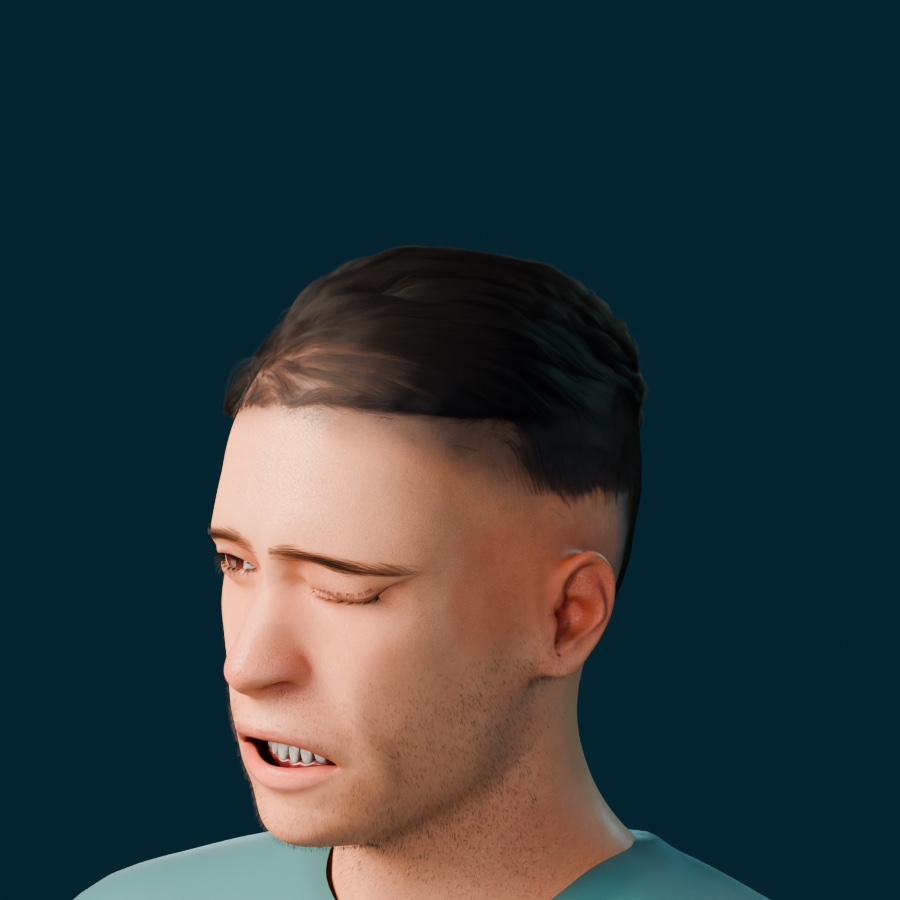
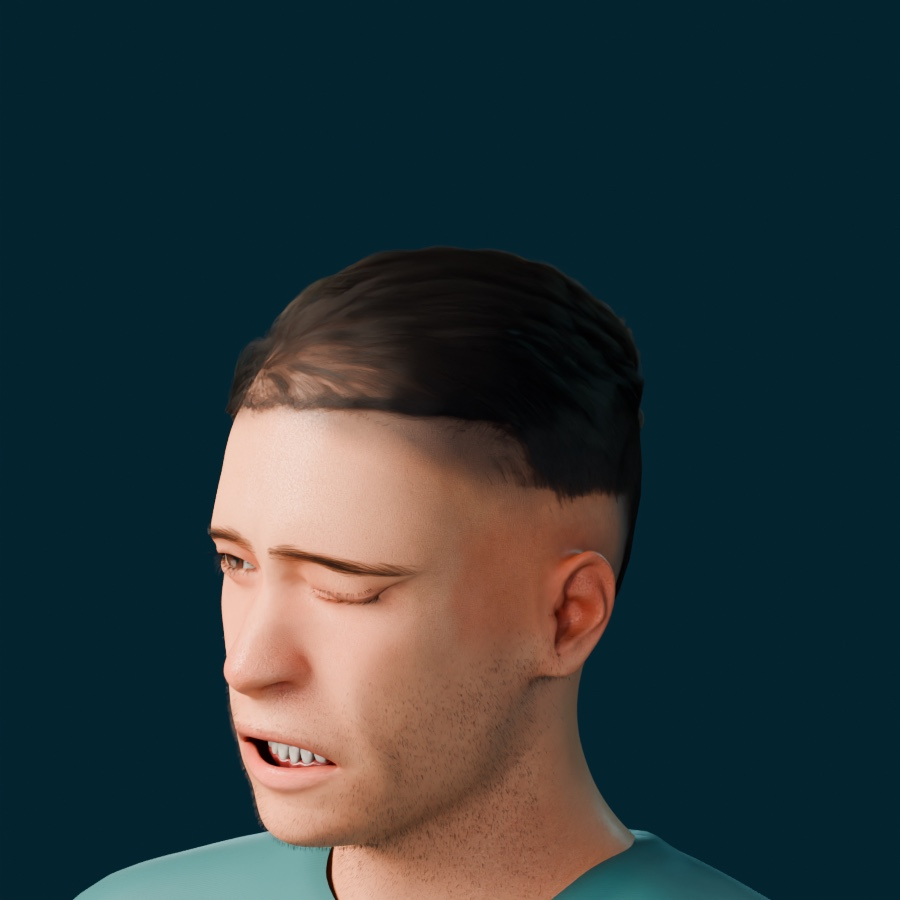
Max v6b review: re-render, wider shirt shot, notes (hair lifts in swallow pose)

diff --git a/assets/characters/max/review/max_v6_notes.md b/assets/characters/max/review/max_v6_notes.md
@@ -65,3 +65,44 @@ Source: `max_v6.blend` (4c6ab92) + `max_look.py --sheet`. Blender 5.2.3 LTS, Cyc
 ## Broken / artefacts
 - None new: no hair through skin, no stray strands, no fireflies, no tearing at eyelids, mouth
   corners or shoulders.
+
+## v6b
+
+Re-render of `max_v6.blend` at 12a49fd: same wrapper, 128 spp, the same 6 outputs (max_v6_* overwritten).
+The shirt shot is pulled back (2.45 m, aim 16 cm higher) so the raised hand is fully in frame.
+- Times: turnarounds 3.9-5.1 s; expressions 4.8-14.9 s; close-ups 26.5 s (ear pop), 27.2 s (hair),
+  17.2 s (eyes), 11.8 s (shirt). Whole run 255 s. Peak footprint 7.4 GB, max RSS 3.4 GB.
+- The renders got slower partway through, probably because macOS `mediaanalysisd` (Photos library
+  analysis) was using ~180% CPU in the background. That's not the asset; v6 times are the real baseline.
+
+### NEW BUG (top priority): the hair lifts off the forehead in the swallow pose
+- In `expr_swallow` (chin tucked down) a **pale bald band appears between the brows and the
+  hairline**: the front of the hair sits up and back from the scalp, so the forehead skin shows
+  through where hair should be. Visible even at phone size in the expression sheet.
+- The other head poses look fine (thinking tilt, ear pop). It seems to happen when the head/neck
+  bends forward: the hair curves may not follow the head deform (rest-pose surface vs posed mesh),
+  or the swallow neck/throat shape key moves the scalp under the hair.
+- Check before any shot where Max nods or looks down.
+
+### Did each fix work?
+- **Tear line: partly.** A faint wet sheen is now visible on the lower lid edge, especially on his
+  left eye. Subtle but present; fine for film distances.
+- **Lashes: yes.** Thinner and softer, no more mascara look. The lower lashes are still slightly
+  clumpy, but acceptable.
+- **Irises: yes.** A natural warm mid-brown, no longer red/orange.
+- **Caruncles:** a little pinker in the inner corners; subtle but now reads as flesh.
+- **Teeth: yes.** Brighter and warmer (no blue-grey); they read as teeth at phone size in ear pop,
+  surprised, scared and yawn.
+- **Ear rim: improved.** Only a very small bright edge at the top of the ear in the close-ups; it
+  won't read in film.
+- **Shirt folds: partly.** Somewhat stronger shading folds on the chest, belly and the side under
+  the raised arm, and less sheen (good). Still fairly smooth with no crisp creases, and under the
+  raised arm the shirt still stretches up with the skin instead of bunching.
+- **Temples: yes.** Corners fuller; the "M" from the front is much milder (a small widow's peak
+  remains, which is natural).
+- **Chew / swallow stills: partly.**
+  - chew: now shows a small sideways jaw/lip shift. Readable next to neutral, but still subtle.
+  - swallow: clearly different now (chin down, pressed lips, lowered lids), but see the hair bug above.
+
+### Otherwise
+- No new tearing at eyelids, mouth or shoulders; no stray strands or fireflies.
